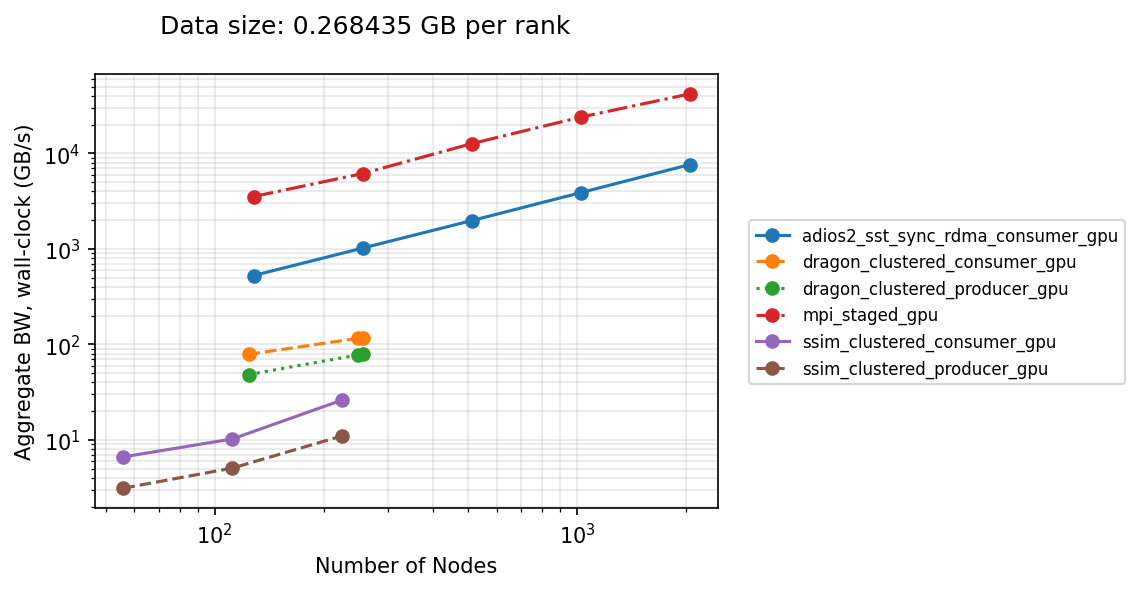
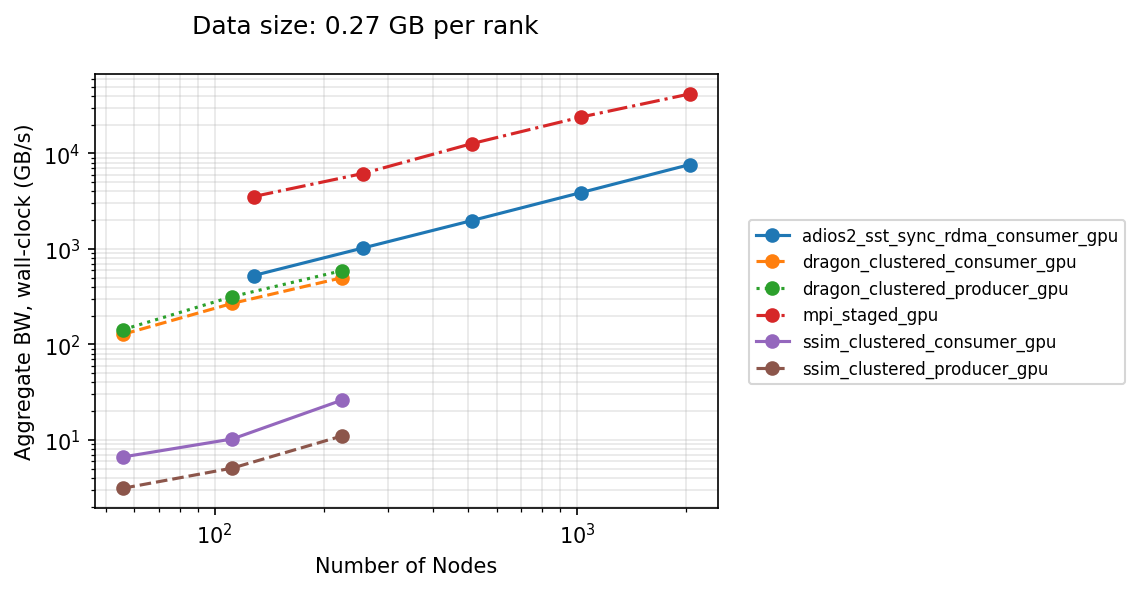
Update dragon DDict scaling results

diff --git a/workflow_stream/dragonhpc_ddict/driver.py b/workflow_stream/dragonhpc_ddict/driver.py
@@ -239,7 +239,7 @@ def main():
     dd_serialized = dd.serialize()
 
     # Launch the workflow
-    print(f"Running with the {args.deployment} deployment \n")
+    print(f"Running with the {args.deployment} deployment \n", flush=True)
     launch_workflow(args, dd_serialized, ddict_nodelist, sim_nodelist, ml_nodelist, exp_dir)
 
     # Close the DDict and quit

diff --git a/workflow_stream/README.md b/workflow_stream/README.md
@@ -81,7 +81,7 @@ Results obtained on 09/01/2026 using ADIOS2 2.11.0, SmartSim/SmartRedis `develop
 
 ### Scaling Clustered Runs on ALCF Aurora
 
-The following results show the performance of the workflow tools in their clustered configuration as the number of nodes are scaled up. The experiments are weak-scaling tests, where the buffer size per rank is kept constant but the number of ranks (12 per node) increases linearly. For the SmartSim and DragonHPC+DDict implementations using in-memory staging, the number of nodes assigned to data staging is also increased linearly with the number of nodes. GPU buffers were used for the producer.
+The following results show the performance of the workflow tools in their clustered configuration as the number of nodes are scaled up. The experiments are weak-scaling tests, where the buffer size per rank is kept constant but the number of ranks (12 per node) increases linearly. For the SmartSim and DragonHPC+DDict implementations using in-memory staging, the number of nodes assigned to data staging is also increased linearly with the number of nodes (starting with 8 staging nodes and 56 nodes split equally between producer and consumer). GPU buffers were used for the producer.
 
 <p align="center">
   <img src="./utils/bw_plot_scale_gpu.png" alt="Aurora clustered scaling" width="900"/>
